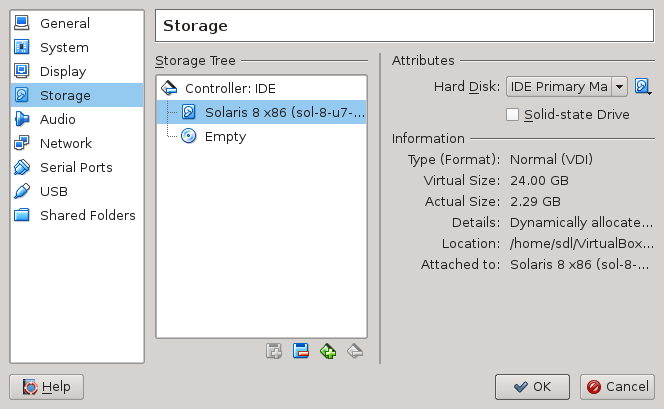
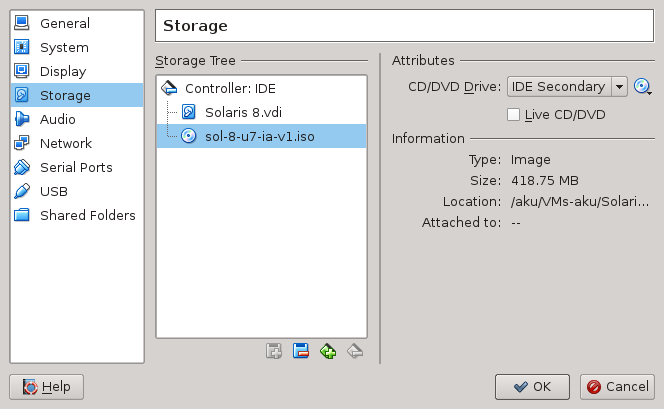
VirtualBox :: setting documented

diff --git a/README.md b/README.md
@@ -167,18 +167,9 @@ Note, <i>you don't actually need to burn a CD</i>, just use whatever software to
 that can be mounted in VirtualBox.  I used <strong>K3b</strong>.
 Solaris 8 will automatically detect when the ISO image is mounted through VirtualBox.
 
-<div style="text-align:left;">
-    This text is left aligned
-        <div style="float:right;">This text is right Aligned</div>
-            </div>
-
-<span style="text-align:left;">
-    This text is left aligned
-        <span style="float:right;">This text is right Aligned</span>
-            </span>
 
 <!-- It's a shame that github strips the style tags,
-     have to make dur with a couple of SPACEs for the button -->
+     have to make due with a few SPACEs before the button -->
 # <span style="text-align:left;">VirtualBox<span style="float:right;">&nbsp;&nbsp;&nbsp;&nbsp;[:top:](#top00)</span></span>
 It's easier to show all of the screenshots of the VirtualBox setting that were used
 with notes as needed to clarify the process.<br>
@@ -186,14 +177,20 @@ After building the new machine (setting its name, memory, and hard drive), use t
 screen shots to perform the final setting that are needed.<br>
 Items that are not show are settings that don't affect the outcome
 (e.g., whether the <strong>Shared Clipboard</strong> is enabled, etc.)
+
 #### General
 * ![General setting](./images/VirtualBox-0001.png)<br>
+Ensure the 32-bit version is selected.
 
 #### System
 * ![System settings](./images/VirtualBox-0002.png)<br>
 2 gigabytes is pretty generous for these old architectures... <br>
 
 * ![Systen settings](./images/VirtualBox-0003.png)<br>
+I configured a 2 CPU system.  I'm not sure how many CPU Solaris 8 x86 supports.<br>
+I believe based on [What's New in Solaris 8 Operating Environment](http://www.ing.iac.es/~cfg/pub_notes/solaris/solaris%208%20whatsnew.pdf),
+PAE is available<br>
+if you want to go above a 4 gigabyte memory configuration.
 
 * ![Systen settings](./images/VirtualBox-0004.png)<br>
 
@@ -204,12 +201,17 @@ I don't know if <strong>Enable 3D Acceleration</strong> actually helps (doesn't 
 
 #### Storage
 * ![Storage settings](./images/VirtualBox-0006.png)<br>
+Install the Solaris 8 media <strong>sol-8-u7-ia-v1.iso</strong>, this is the boot media.
 
 #### Audio
 * ![Audio settings](./images/VirtualBox-0007.png)<br>
 
 #### Network
 * ![Network settings](./images/VirtualBox-0008.png)<br>
+Ensure that the adapter type is set <strong>PCnet-PCI II (Am79C970A)</strong> (others may work, I haven't tried).<br>
+Multiple adaapters should work, but the network will require a different configuration
+(I believe)
+<br>and this guide does not cover those steps.
 
 #### Serial Ports
 * No serial ports were configured.
